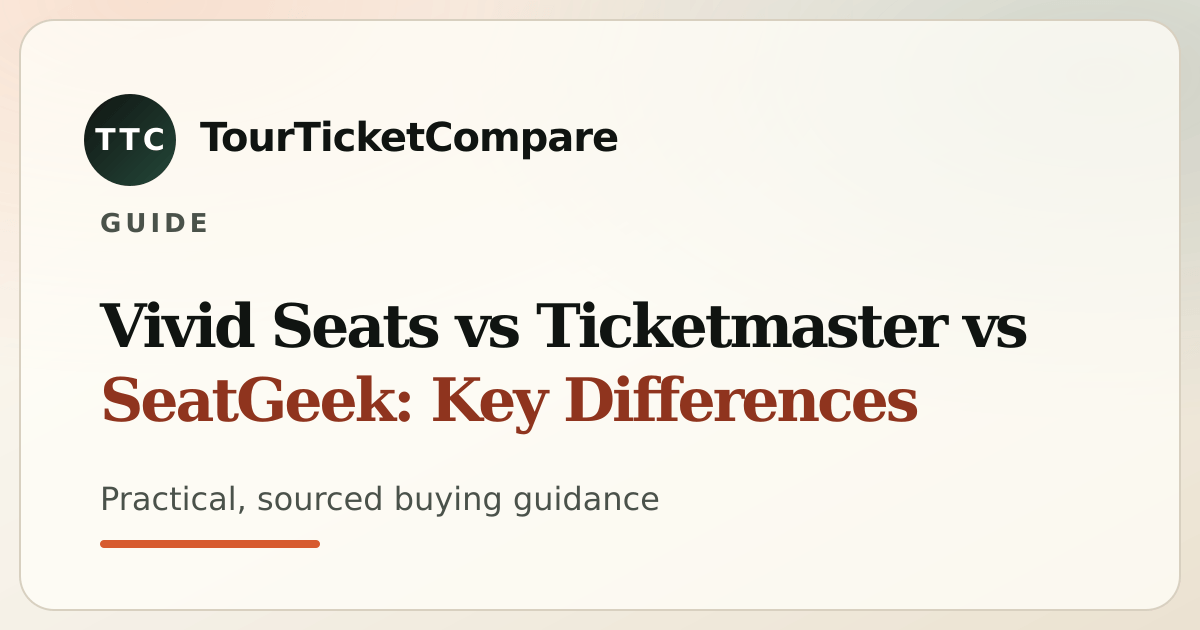
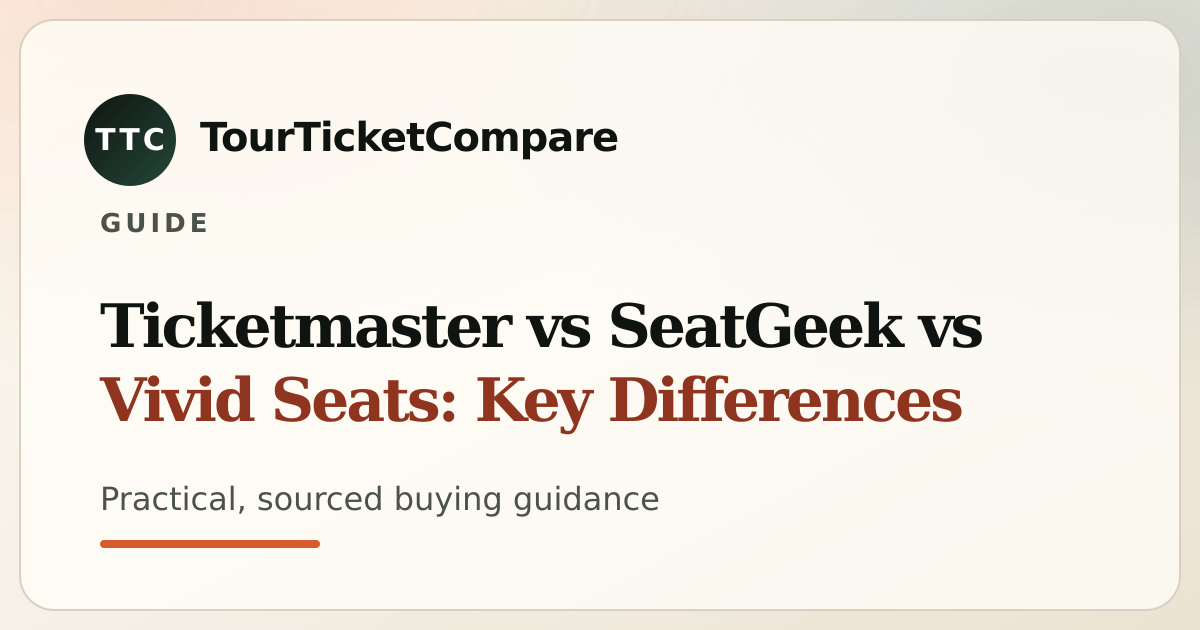
Sync the remaining two guide-copy mirrors: schema check and OG cards
CI caught two more surfaces carrying the superseded guide copy. Both are
the same #773/#739 breakage as the first commit, and both fail identically
on pristine origin/main, so they are pre-existing rather than introduced
here — they were simply invisible to the checks run so far.

scripts/validate-route-schema.mjs hard-coded the old Vivid guide <title>
and failed with "unique SEO title missing". This runs as its own CI step,
not inside test:mvp, which is why a green local test:mvp missed it.

functions/_og-cards.generated.js and three cards under public/og/ still
rendered the old titles in their alt text and artwork. og:check passes on
stale cards because it only verifies that referenced cards exist, not that
their text matches current copy.

Regenerated with npm run og:build rather than hand-edited. It rewrote all
255 cards; exactly three PNGs changed, the three guides whose copy moved.

A repo-wide sweep for the superseded strings now returns nothing outside
data/content-provenance.json, which stores fingerprints rather than copy.

Verified by running every step of prelaunch-validation.yml locally, not
just test:mvp: validate-events --for-production, guides:validate,
schema:validate, test:mvp, audit:indexable-surface:check, node --check,
and git diff --check. All pass.

Changed region(s): [[0.0617, 0.4825, 0.8633, 0.6937]]

diff --git a/functions/_og-cards.generated.js b/functions/_og-cards.generated.js
@@ -201,12 +201,12 @@ export const OG_CARDS = {
   "/guides/how-to-read-a-ticket-listing": {"url":"/og/guides-how-to-read-a-ticket-listing.png","alt":"Guide: How do I read a concert ticket listing?"},
   "/guides/primary-vs-resale-concert-tickets": {"url":"/og/guides-primary-vs-resale-concert-tickets.png","alt":"Guide: What is the difference between official tickets and resale?"},
   "/guides/seatgeek-promo-code-guide": {"url":"/og/guides-seatgeek-promo-code-guide.png","alt":"Guide: How should I verify a SeatGeek promo code safely?"},
-  "/guides/seatgeek-vs-ticketmaster": {"url":"/og/guides-seatgeek-vs-ticketmaster.png","alt":"Guide: SeatGeek vs Ticketmaster: Which Is Better? Fees & Prices"},
+  "/guides/seatgeek-vs-ticketmaster": {"url":"/og/guides-seatgeek-vs-ticketmaster.png","alt":"Guide: SeatGeek vs Ticketmaster: Which Is Better or Cheaper?"},
   "/guides/ticket-delivery-and-transfer-timing": {"url":"/og/guides-ticket-delivery-and-transfer-timing.png","alt":"Guide: How do ticket delivery and transfer timing affect risk?"},
-  "/guides/ticketmaster-vs-seatgeek-vs-vivid-seats": {"url":"/og/guides-ticketmaster-vs-seatgeek-vs-vivid-seats.png","alt":"Guide: Vivid Seats vs Ticketmaster vs SeatGeek: Key Differences"},
+  "/guides/ticketmaster-vs-seatgeek-vs-vivid-seats": {"url":"/og/guides-ticketmaster-vs-seatgeek-vs-vivid-seats.png","alt":"Guide: Ticketmaster vs SeatGeek vs Vivid Seats: Key Differences"},
   "/guides/ticketmaster-vs-stubhub": {"url":"/og/guides-ticketmaster-vs-stubhub.png","alt":"Guide: How should I compare Ticketmaster and StubHub?"},
   "/guides/ticketnetwork-vs-ticketmaster": {"url":"/og/guides-ticketnetwork-vs-ticketmaster.png","alt":"Guide: How should I compare TicketNetwork and Ticketmaster?"},
-  "/guides/vivid-seats-vs-ticketmaster": {"url":"/og/guides-vivid-seats-vs-ticketmaster.png","alt":"Guide: Vivid Seats vs Ticketmaster (2026): fees, safety and delivery"},
+  "/guides/vivid-seats-vs-ticketmaster": {"url":"/og/guides-vivid-seats-vs-ticketmaster.png","alt":"Guide: Vivid Seats vs Ticketmaster: Key Differences, Fees & Safety"},
   "/guides/what-to-do-if-a-concert-is-postponed-or-cancelled": {"url":"/og/guides-what-to-do-if-a-concert-is-postponed-or-cancelled.png","alt":"Guide: What should I do if a concert is postponed or cancelled?"},
   "/guides/when-is-the-best-time-to-buy-concert-tickets": {"url":"/og/guides-when-is-the-best-time-to-buy-concert-tickets.png","alt":"Guide: When should I buy concert tickets?"},
   "/guides/why-ticket-prices-change": {"url":"/og/guides-why-ticket-prices-change.png","alt":"Guide: Why do concert ticket prices change?"},
